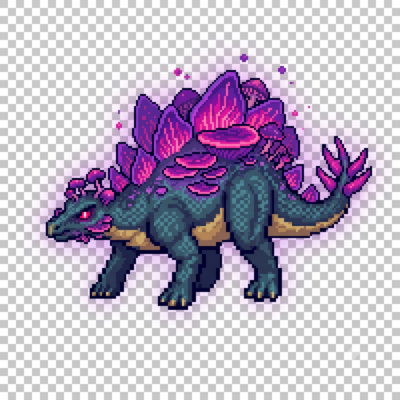
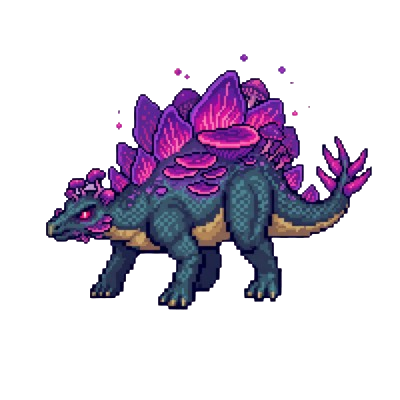
boss & emojis resize

diff --git a/src/client/scenes/Game.ts b/src/client/scenes/Game.ts
@@ -20,12 +20,13 @@ export class Game extends Scene {
   lastTapAt: number = 0;
   lastSeenBossHp: number | null = null;
   lastSeenPartyHp: number | null = null;
-  artApplied: boolean = false;
 
   // ---- Visuals ----
   background: Phaser.GameObjects.Image | null = null;
-  bossSprite: Phaser.GameObjects.Image | Phaser.GameObjects.Rectangle;
+  bossSprite: Phaser.GameObjects.Image;
   bossIdleTween: Phaser.Tweens.Tween | null = null;
+  currentBossId: string = '';
+  initialBossId: string = 'raptor';
   partySprites: Map<string, Phaser.GameObjects.Sprite> = new Map();
   partyShadows: Map<string, Phaser.GameObjects.Image> = new Map();
   partyNames: Map<string, Phaser.GameObjects.Text> = new Map();
@@ -54,17 +55,18 @@ export class Game extends Scene {
     super('Game');
   }
 
-  // Receives { roomId, role } from the Lobby
-  init(data: { roomId: string; role?: Role }) {
+  // Receives { roomId, role, bossId } from the Lobby
+  init(data: { roomId: string; role?: Role; bossId?: string }) {
     this.roomId = data.roomId;
     this.myRole = data.role ?? 'attacker';
+    this.initialBossId = data.bossId ?? 'raptor';
     this.fightOver = false;
     this.lastTapAt = 0;
     this.lastSeenBossHp = null;
     this.lastSeenPartyHp = null;
-    this.artApplied = false;
     this.background = null;
     this.bossIdleTween = null;
+    this.currentBossId = '';
     this.preFightMe = null;
     this.partySprites = new Map();
     this.partyShadows = new Map();
@@ -74,17 +76,20 @@ export class Game extends Scene {
 
   create() {
     this.camera = this.cameras.main;
-    this.camera.setBackgroundColor(0x1a2f1a);
+    this.camera.setBackgroundColor(0x0d1526);
+    this.camera.fadeIn(300, 13, 21, 38);
 
-    // ---- Boss placeholder; real art swaps in via applyBossArt() once state arrives ----
-    this.bossSprite = this.add.rectangle(0, 0, 64, 64, 0x6a3d7b).setOrigin(0.5, 1);
+    // ---- Background + boss: created directly with real art (known from the lobby) ----
+    this.background = this.add.image(0, 0, `bg_${this.initialBossId}`).setOrigin(0.5).setDepth(-10);
+    this.bossSprite = this.add.image(0, 0, `boss_${this.initialBossId}`).setOrigin(0.5, 1);
+    this.currentBossId = this.initialBossId;
 
     // ---- Tap anywhere on the battlefield to act ----
     this.input.on('pointerdown', () => void this.onActionTap());
 
     // ---- Boss UI (floats above the boss) ----
     this.bossNameText = this.add
-      .text(0, 0, 'Loading...', {
+      .text(0, 0, '', {
         fontFamily: 'Arial Black', color: '#ffffff',
         stroke: '#000000', strokeThickness: 6,
       })
@@ -236,30 +241,13 @@ export class Game extends Scene {
     }
   }
 
-  // Swap in the real boss + arena art once we know which boss this room has
-  applyBossArt(bossId: string) {
-    if (this.artApplied) return;
-    this.artApplied = true;
-
-    const bossKey = `boss_${bossId}`;
-    if (this.textures.exists(bossKey)) {
-      const { x, y } = this.bossSprite;
-      this.bossIdleTween?.remove();
-      this.bossSprite.destroy();
-      this.bossSprite = this.add.image(x, y, bossKey).setOrigin(0.5, 1);
-      this.bossIdleTween = this.tweens.add({
-        targets: this.bossSprite,
-        scaleY: { from: 1, to: 1.04 },
-        scaleX: { from: 1, to: 0.98 },
-        duration: 900, yoyo: true, repeat: -1, ease: 'Sine.easeInOut',
-      });
-    }
-
-    const bgKey = `bg_${bossId}`;
-    if (this.textures.exists(bgKey) && !this.background) {
-      this.background = this.add.image(0, 0, bgKey).setOrigin(0.5).setDepth(-10);
-    }
-
+  // Safety net: if the server says this room is a different boss (e.g. reconnect
+  // into an active fight), swap the textures to match
+  ensureBossArt(bossId: string) {
+    if (bossId === this.currentBossId) return;
+    this.currentBossId = bossId;
+    this.bossSprite.setTexture(`boss_${bossId}`);
+    this.background?.setTexture(`bg_${bossId}`);
     this.updateLayout(this.scale.width, this.scale.height);
   }
 
@@ -332,12 +320,8 @@ export class Game extends Scene {
       yoyo: true,
       repeat: 2,
     });
-    if (this.bossSprite instanceof Phaser.GameObjects.Image) {
-      this.bossSprite.setTint(0xff6666);
-      this.time.delayedCall(120, () => {
-        (this.bossSprite as Phaser.GameObjects.Image).clearTint();
-      });
-    }
+    this.bossSprite.setTint(0xff6666);
+    this.time.delayedCall(120, () => this.bossSprite.clearTint());
   }
 
   // Apply full fight state to the UI
@@ -345,7 +329,7 @@ export class Game extends Scene {
     // Once the fight ended, ignore any late/stale responses
     if (this.fightOver) return;
 
-    this.applyBossArt(s.bossId);
+    this.ensureBossArt(s.bossId);
     this.syncPartySprites(s.contributions);
 
     // ---- Detect changes for juice (floating numbers, reactions, sounds) ----
@@ -483,27 +467,40 @@ export class Game extends Scene {
       this.background.setScale(scale);
     }
 
-    // ---- Boss: right-of-center on the ground line, ~28% of screen height ----
+    // ---- Boss: right-of-center on the ground line ----
+    // ---- Boss: size capped by BOTH height and width so no screen shape breaks it ----
     const groundY = height * 0.72;
-    const bossX = isNarrow ? width * 0.68 : width * 0.66;
+    const bossX = isNarrow ? width * 0.66 : width * 0.68;
+
     const srcH = this.bossSprite.height || 64;
-    const bossScale = (height * 0.28) / srcH;
+    const srcW = this.bossSprite.width || 64;
+
+    // Boss may be at most 34% of screen height AND 42% of screen width,
+    // whichever is more restrictive — tall bosses obey the height cap,
+    // wide bosses obey the width cap. Never breaks on any aspect ratio.
+    const bossScale = Math.min(
+      (height * 0.34) / srcH,
+      (width * 0.42) / srcW
+    );
     this.bossSprite.setPosition(bossX, groundY);
     this.bossSprite.setScale(bossScale);
 
-    // ---- Boss UI floats above the boss ----
+    // ---- Boss UI: pinned to a fixed screen band (NOT the boss's head) ----
+    // Fixed band = always visible, always readable, regardless of boss size.
     const titleSize = Math.round(Phaser.Math.Clamp(width * 0.036, 16, 30));
     const barTextSize = Math.round(Phaser.Math.Clamp(width * 0.02, 11, 16));
-    this.bossBarWidth = Math.min(width * 0.34, 260);
+    this.bossBarWidth = Math.min(width * 0.42, 280);
     const bossBarH = Math.round(Phaser.Math.Clamp(height * 0.03, 14, 22));
-    const bossTopY = groundY - srcH * bossScale;
 
-    this.bossNameText.setFontSize(titleSize).setPosition(bossX, bossTopY - bossBarH * 2.4);
-    this.bossHpBarBg.setPosition(bossX, bossTopY - bossBarH).setSize(this.bossBarWidth, bossBarH);
+    const bossBarY = height * 0.12;                    // bar band: 12% from top
+    const bossNameY = bossBarY - bossBarH * 1.6;       // name right above the bar
+
+    this.bossNameText.setFontSize(titleSize).setPosition(bossX, bossNameY);
+    this.bossHpBarBg.setPosition(bossX, bossBarY).setSize(this.bossBarWidth, bossBarH);
     this.bossHpBarFill
-      .setPosition(bossX - this.bossBarWidth / 2, bossTopY - bossBarH)
+      .setPosition(bossX - this.bossBarWidth / 2, bossBarY)
       .setSize(this.bossBarWidth * (this.bossHp / this.bossMaxHp || 0), bossBarH);
-    this.bossHpText.setFontSize(barTextSize).setPosition(bossX, bossTopY - bossBarH);
+    this.bossHpText.setFontSize(barTextSize).setPosition(bossX, bossBarY);
 
     // ---- Shield indicator near the squad ----
     this.shieldText
@@ -523,5 +520,7 @@ export class Game extends Scene {
       .setFontSize(Math.round(actionSize * 0.6))
       .setPadding({ x: 20, y: 12 } as Phaser.Types.GameObjects.Text.TextPadding)
       .setPosition(cx, height * 0.85);
+
+      console.log('boss debug:', { srcH, bossScale, texH: this.bossSprite.height, dispH: this.bossSprite.displayHeight, screenH: height });
   }
 }

diff --git a/src/client/scenes/BossSelect.ts b/src/client/scenes/BossSelect.ts
@@ -117,8 +117,8 @@ export class BossSelect extends Scene {
     }
     this.energyChip.text.setText(energy);
 
-    this.rewardsChip.text.setText(`🎁 ${m.rewardCap - m.rewardsToday}/${m.rewardCap}`);
-    this.coinsChip.text.setText(`🪙 ${m.coins}`);
+    this.rewardsChip.text.setText(` ${m.rewardCap - m.rewardsToday}/${m.rewardCap}`);
+    this.coinsChip.text.setText(` ${m.coins}`);
 
     // XP bar + number inside it
     const ratio = m.xpForNext > 0 ? m.xp / m.xpForNext : 0;
@@ -169,12 +169,12 @@ export class BossSelect extends Scene {
         .text(0, 0, boss.name, { fontFamily: 'Arial Black', color: '#ffffff' })
         .setOrigin(0.5);
       const hp = this.add
-        .text(0, 0, `❤️ ${boss.maxHp} HP`, { fontFamily: 'Arial', color: '#ff9b9b' })
+        .text(0, 0, ` ${boss.maxHp} HP`, { fontFamily: 'Arial', color: '#ff9b9b' })
         .setOrigin(0.5);
       const waiting = this.add
         .text(
           0, 0,
-          boss.waiting > 0 ? `🔥 ${boss.waiting} hunter${boss.waiting > 1 ? 's' : ''} waiting!` : 'Be the first to join!',
+          boss.waiting > 0 ? ` ${boss.waiting} hunter${boss.waiting > 1 ? 's' : ''} waiting!` : 'Be the first to join!',
           { fontFamily: 'Arial', color: boss.waiting > 0 ? '#ffd700' : '#8899bb' }
         )
         .setOrigin(0.5);

diff --git a/src/client/scenes/Lobby.ts b/src/client/scenes/Lobby.ts
@@ -91,7 +91,7 @@ export class Lobby extends Scene {
       .text(0, 0, '⚡ -/-', { fontFamily: 'Arial Black', color: '#ffd94a', stroke: '#000000', strokeThickness: 3 })
       .setOrigin(1, 0.5);
     this.rewardsText = this.add
-      .text(0, 0, '🎁 -/-', { fontFamily: 'Arial Black', color: '#ff9ecb', stroke: '#000000', strokeThickness: 3 })
+      .text(0, 0, ' -/-', { fontFamily: 'Arial Black', color: '#ff9ecb', stroke: '#000000', strokeThickness: 3 })
       .setOrigin(1, 0.5);
 
     // ================= STANDS =================
@@ -166,7 +166,7 @@ export class Lobby extends Scene {
       const res = await fetch('/api/me');
       this.me = (await res.json()) as MeResponse;
       this.energyText.setText(`⚡ ${this.me.energy}/${this.me.energyMax}`);
-      this.rewardsText.setText(`🎁 ${this.me.rewardCap - this.me.rewardsToday}/${this.me.rewardCap}`);
+      this.rewardsText.setText(` ${this.me.rewardCap - this.me.rewardsToday}/${this.me.rewardCap}`);
     } catch (e) {
       console.error('Failed to load player:', e);
     }
@@ -190,7 +190,7 @@ export class Lobby extends Scene {
 
       if (data.status === 'started' && data.joined) {
         this.pollTimer.remove();
-        this.scene.start('Game', { roomId: data.roomId, role: data.myRole ?? this.myRole ?? 'attacker' });
+        this.scene.start('Game', { roomId: data.roomId, role: data.myRole ?? this.myRole ?? 'attacker', bossId: this.bossId });
         return;
       }
 

diff --git a/src/client/splash.html b/src/client/splash.html
@@ -11,7 +11,7 @@
   </head>
   <body class="app">
     <div class="content">
-      <h1 class="title">🌋 DINONINI</h1>
+      <h1 class="title">DINONINNO</h1>
       <p class="tagline">Team up. Tap hard. Slay the boss.</p>
       <div class="dino" aria-hidden="true"></div>
       <p class="greeting" id="greeting"></p>